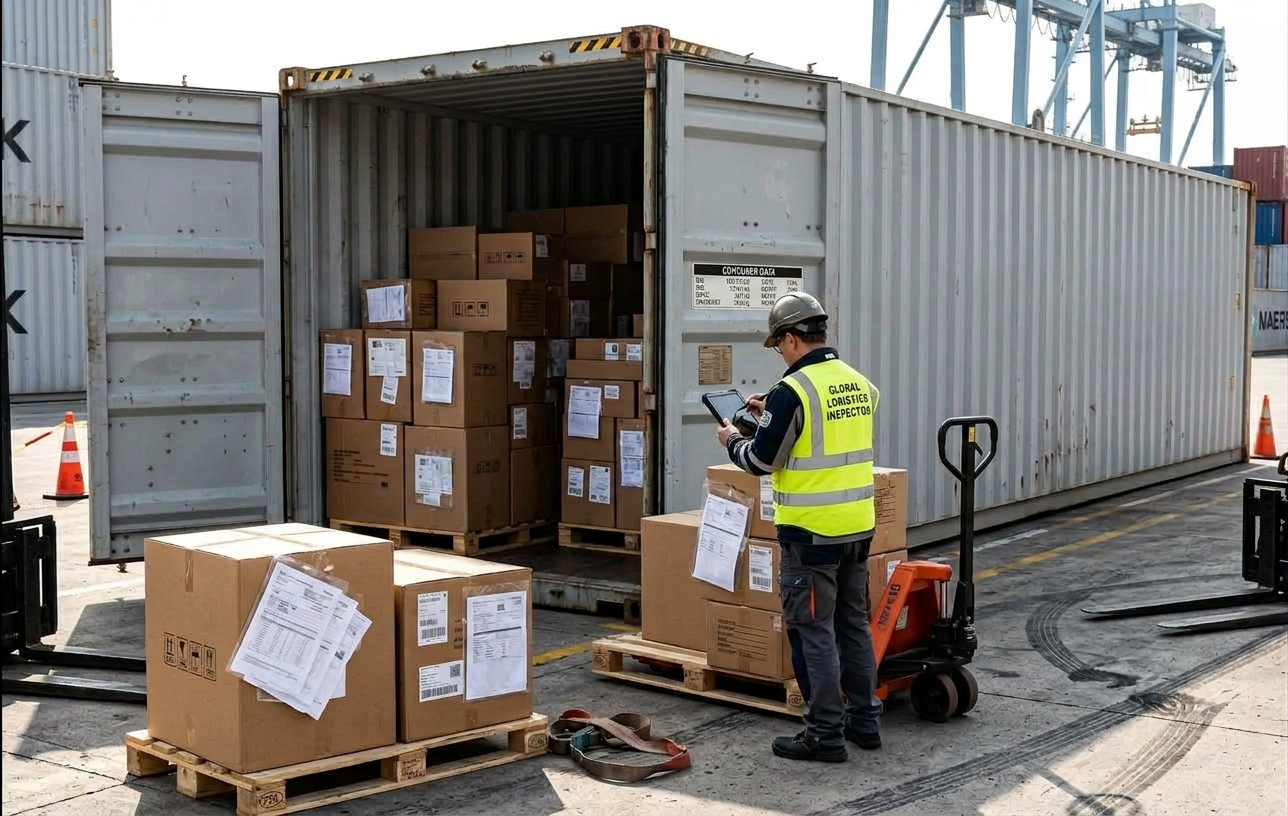
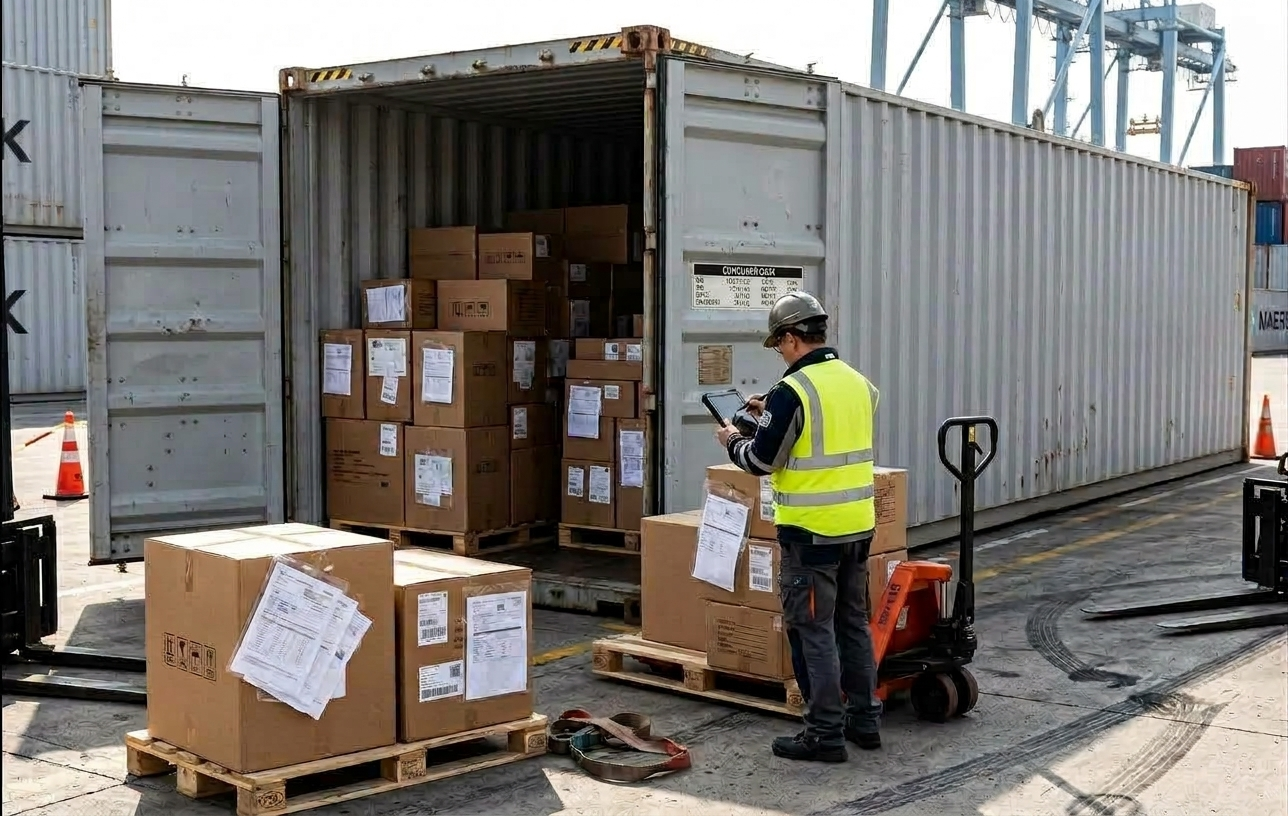
Merge Power Systems and Industrial Supply into Power & Industrial Equipment; tighten Advanced Solutions services

diff --git a/lib/pillars.tsx b/lib/pillars.tsx
@@ -12,12 +12,11 @@ export const advancedPillars: Pillar[] = [
   {
     title: "Aviation & Specialized Assets",
     description:
-      "Sourcing, acquisition, and disposal of fixed-wing and rotary aircraft and specialized assets for government and commercial operators. Discreet, documentation-led transactions managed end to end.",
+      "Sourcing, acquisition, and disposal of aircraft and specialized assets.",
     bullets: [
-      "Fixed-wing and rotary aircraft sourcing, acquisition, and disposal",
-      "Support for government and commercial operators",
-      "Discreet, documentation-led transaction management",
-      "End-to-end handling from identification through transfer",
+      "Fixed-wing and rotary aircraft",
+      "Specialized assets for government and commercial operators",
+      "Discreet, documentation-led transactions from identification through transfer",
     ],
     photoSrc: "/images/aviation-fleet.png",
     photoLabel: "C-130 Hercules and CH-47 Chinook in flight",
@@ -35,12 +34,11 @@ export const advancedPillars: Pillar[] = [
   {
     title: "Modular Infrastructure",
     description:
-      "Prefabricated e-houses, control shelters, modular buildings, and mobile workshops for harsh-environment and remote-site deployment. Factory-built, fully integrated, and engineered for rapid installation.",
+      "Factory-built shelters and buildings for harsh-environment and remote sites, delivered fully integrated for rapid installation.",
     bullets: [
       "Prefabricated e-houses and control shelters",
-      "Modular buildings and mobile workshops",
-      "Engineered for harsh-environment and remote-site deployment",
-      "Factory-built, fully integrated, rapid installation",
+      "Modular buildings",
+      "Mobile workshops",
     ],
     photoSrc: "/images/modular-e-house.png",
     photoLabel: "E-house control shelter, cutaway engineering render",
@@ -55,14 +53,13 @@ export const advancedPillars: Pillar[] = [
     ),
   },
   {
-    title: "Power Systems",
+    title: "Power & Industrial Equipment",
     description:
-      "Containerized and mobile power generation across standby, prime, and continuous-duty requirements. Configured for industrial sites, remote operations, and mission-critical continuity.",
+      "Power generation and industrial equipment for industrial sites and remote operations, sourced from manufacturers across Europe, Turkey, and international markets.",
     bullets: [
-      "Containerized and mobile power generation",
-      "Standby, prime, and continuous-duty configurations",
-      "Built for industrial sites and remote operations",
-      "Configured for mission-critical continuity",
+      "Containerized and mobile generator sets for standby, prime, and continuous duty",
+      "Electrical and instrumentation equipment",
+      "Other industrial equipment on request, including hard-to-source items",
     ],
     photoSrc: "/images/power-genset.png",
     photoLabel: "Containerized power generator skid",
@@ -74,29 +71,6 @@ export const advancedPillars: Pillar[] = [
         <line x1="30" y1="38" x2="34" y2="38" />
         <circle cx="36" cy="16" r="6" />
         <path d="M36 12v4h4" />
-      </svg>
-    ),
-  },
-  {
-    title: "Industrial Supply",
-    description:
-      "A broad sourcing network across Europe, Turkey, and international markets for electrical, instrumentation, and complementary industrial categories. A single channel for hard-to-source requirements.",
-    bullets: [
-      "Electrical and instrumentation product sourcing",
-      "Sourcing network across Europe, Turkey, and international markets",
-      "Single channel for hard-to-source requirements",
-      "Complementary industrial categories on request",
-    ],
-    photoSrc: "/images/logistics-yard.png",
-    photoLabel: "Aerial view of a logistics and container yard",
-    icon: (
-      <svg {...iconProps}>
-        <circle cx="24" cy="24" r="18" />
-        <circle cx="24" cy="24" r="6" />
-        <line x1="24" y1="6" x2="24" y2="18" />
-        <line x1="24" y1="30" x2="24" y2="42" />
-        <line x1="6" y1="24" x2="18" y2="24" />
-        <line x1="30" y1="24" x2="42" y2="24" />
       </svg>
     ),
   },

diff --git a/app/advanced-solutions/page.tsx b/app/advanced-solutions/page.tsx
@@ -9,7 +9,7 @@ import { advancedPillars } from "@/lib/pillars";
 export const metadata: Metadata = {
   title: "Advanced Solutions",
   description:
-    "VertexShell Advanced Solutions delivers modular infrastructure, power systems, aviation and specialized assets, and industrial supply, sourced, engineered, and delivered across MENA and international markets.",
+    "VertexShell Advanced Solutions delivers aviation and specialized assets, modular infrastructure, and power and industrial equipment, sourced, engineered, and delivered across MENA and international markets.",
 };
 
 export default function AdvancedSolutionsPage() {
@@ -24,7 +24,7 @@ export default function AdvancedSolutionsPage() {
           logoHeight={370}
           eyebrow="A VertexShell Company"
           title="Engineered infrastructure, power, and aviation assets."
-          description="Advanced Solutions supplies prefabricated infrastructure, power generation, aircraft, and industrial products. We source from established manufacturers, manage testing and delivery, and support installation and handover."
+          description="Advanced Solutions supplies aircraft, prefabricated infrastructure, and power and industrial equipment. We source from established manufacturers, manage testing and delivery, and support installation and handover."
         />
         <PillarList pillars={advancedPillars} />
         <CtaBanner

diff --git a/app/layout.tsx b/app/layout.tsx
@@ -30,7 +30,7 @@ export const metadata: Metadata = {
     template: "%s | VertexShell",
   },
   description:
-    "Group of companies delivering engineered infrastructure, power systems, aviation and specialized assets, and international import and export trading across the MENA region and beyond.",
+    "Group of companies delivering aviation and specialized assets, modular infrastructure, power and industrial equipment, and international import and export trading across the MENA region and beyond.",
   keywords: [
     "industrial supply",
     "import and export",
@@ -50,7 +50,7 @@ export const metadata: Metadata = {
   openGraph: {
     title: "VertexShell | Engineered Supply and International Trading",
     description:
-      "Group of companies delivering engineered infrastructure, power systems, aviation and specialized assets, and international import and export trading across the MENA region and beyond.",
+      "Group of companies delivering aviation and specialized assets, modular infrastructure, power and industrial equipment, and international import and export trading across the MENA region and beyond.",
     url: "https://vertexshell.com",
     siteName: "VertexShell",
     images: [

diff --git a/components/careers/OpenPositions.tsx b/components/careers/OpenPositions.tsx
@@ -80,8 +80,8 @@ export default function OpenPositions() {
               <div className="px-8 md:px-10 pb-8 md:pb-10">
                 <p className="text-secondary leading-relaxed">
                   VertexShell is looking for an Account Manager to
-                  own customer relationships across our modular infrastructure,
-                  power systems, aviation, and industrial supply lines. You
+                  own customer relationships across our aviation, modular
+                  infrastructure, and power and industrial equipment lines. You
                   will be the primary point of contact for customers across the
                   public sector, energy, telecom, and industrial construction
                   sectors, managing accounts from initial inquiry through

diff --git a/lib/companies.ts b/lib/companies.ts
@@ -23,12 +23,11 @@ export const companies: Company[] = [
     href: "/advanced-solutions",
     tagline: "Engineered infrastructure, power, and aircraft",
     description:
-      "Prefabricated infrastructure, power generation, aircraft, and industrial products, sourced from established manufacturers and delivered to site.",
+      "Aircraft, prefabricated infrastructure, and power and industrial equipment, sourced from established manufacturers and delivered to site.",
     services: [
       "Aviation & Specialized Assets",
       "Modular Infrastructure",
-      "Power Systems",
-      "Industrial Supply",
+      "Power & Industrial Equipment",
     ],
     logo: "/brand/advanced-solutions.png",
     logoWidth: 1581,

diff --git a/components/AboutTeaser.tsx b/components/AboutTeaser.tsx
@@ -25,8 +25,8 @@ export default function AboutTeaser() {
               Supplying Industry and Trade Across MENA
             </h2>
             <p className="mt-6 text-secondary leading-relaxed max-w-2xl">
-              VertexShell supplies engineered infrastructure, power
-              systems, aircraft, and industrial products, and trades food and
+              VertexShell supplies aircraft, modular infrastructure, and power and industrial
+              equipment, and trades food and
               beverage products and raw materials. We work with
               government bodies, energy and petrochemical operators, telecom
               companies, aviation operators, industrial contractors, and food

diff --git a/components/about/AboutStory.tsx b/components/about/AboutStory.tsx
@@ -28,7 +28,8 @@ export default function AboutStory() {
           </p>
           <p className="text-secondary leading-relaxed">
             Advanced Solutions sources and supplies factory-built
-            infrastructure, power systems, aircraft, and industrial products.
+            aircraft, modular infrastructure, and power and industrial
+            equipment.
             Trading &amp; Distribution imports, exports, and distributes food and
             beverage products and raw materials. The two companies share a sourcing network
             and a locally based commercial and project team.

diff --git a/components/Hero.tsx b/components/Hero.tsx
@@ -22,8 +22,8 @@ export default function Hero() {
 
         <p className="mt-6 text-lg md:text-xl text-white/70 leading-relaxed max-w-xl">
           VertexShell is a group of two companies. Advanced Solutions
-          supplies infrastructure, power systems, aircraft, and industrial
-          products. Trading &amp; Distribution imports, exports, and distributes
+          supplies aircraft, modular infrastructure, and power and industrial
+          equipment. Trading &amp; Distribution imports, exports, and distributes
           food and beverage products and raw materials.
         </p>
 

diff --git a/app/careers/page.tsx b/app/careers/page.tsx
@@ -7,7 +7,7 @@ import Footer from "@/components/Footer";
 export const metadata: Metadata = {
   title: "Careers",
   description:
-    "Join VertexShell and build a career across engineered infrastructure, power systems, aviation, industrial supply, and international trading.",
+    "Join VertexShell and build a career across engineered infrastructure, power and industrial equipment, aviation, and international trading.",
 };
 
 export default function CareersPage() {

diff --git a/app/contact/page.tsx b/app/contact/page.tsx
@@ -6,7 +6,7 @@ import Footer from "@/components/Footer";
 export const metadata: Metadata = {
   title: "Contact",
   description:
-    "Get in touch with VertexShell for engineered infrastructure, power, aviation, industrial supply, and import and export requirements.",
+    "Get in touch with VertexShell for engineered infrastructure, power and industrial equipment, aviation, and import and export requirements.",
 };
 
 export default function ContactPage() {

diff --git a/README.md b/README.md
@@ -1,6 +1,6 @@
 # VertexShell Website
 
-Marketing website for VertexShell, a Cairo-based group of companies: VertexShell Advanced Solutions (aviation and specialized assets, modular infrastructure, power systems, industrial supply) and VertexShell Trading & Distribution (import and export of food and beverage and raw materials).
+Marketing website for VertexShell, a Cairo-based group of companies: VertexShell Advanced Solutions (aviation and specialized assets, modular infrastructure, power and industrial equipment) and VertexShell Trading & Distribution (import and export of food and beverage and raw materials).
 
 ## Tech Stack
 
